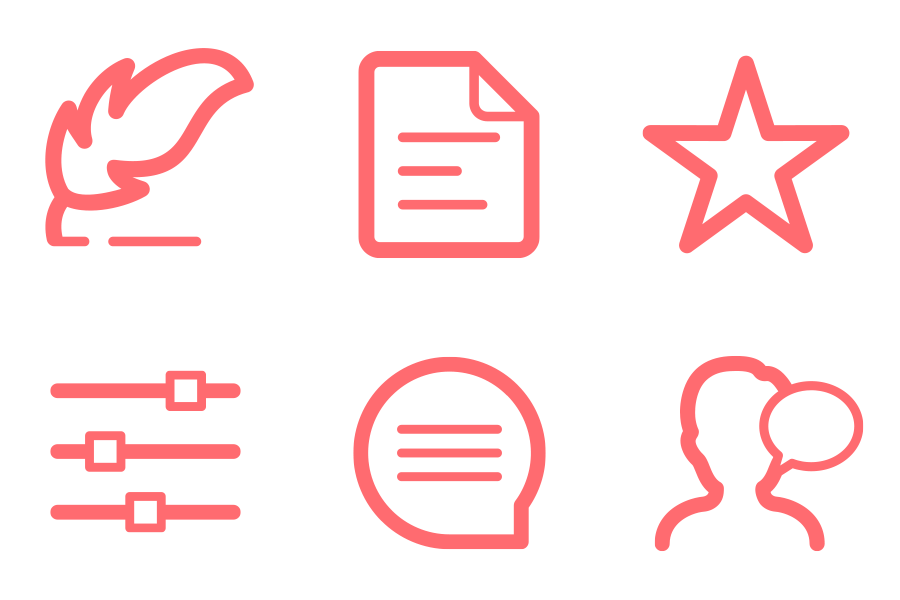
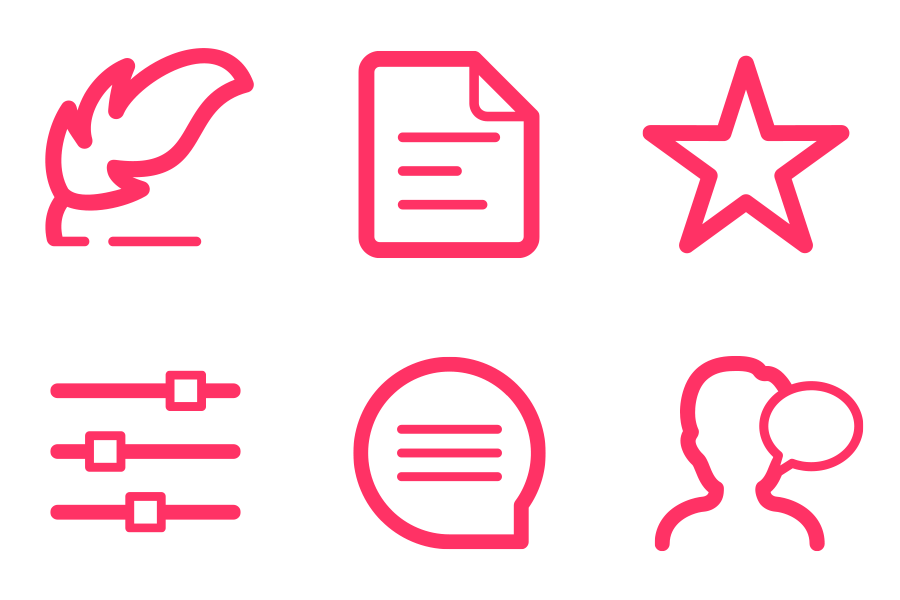
change brand colors

diff --git a/assets/stylesheets/_variables.scss b/assets/stylesheets/_variables.scss
@@ -10,14 +10,16 @@ $gray:                   lighten(#000, 33.5%) !default; // #555
 $gray-light:             lighten(#000, 60%) !default;   // #999
 $gray-lighter:           lighten(#000, 93.5%) !default; // #eee
 
-$brand-primary:          #fe5858 !default;
-$brand-success:          #5cb85c !default;
-$brand-info:             #5bc0de !default;
-$brand-warning:          #f0ad4e !default;
-$brand-danger:           #d9534f !default;
+$brand-primary:         #ff3265 !default;
+$brand-success:         #44c3aa !default;
+$brand-info:            #826c61 !default;
+$brand-warning:         #f6b901 !default;
+$brand-danger:          #a23c56 !default;
+
 
 //wedfairy
-$wedfairy-color:         #FE5B60 !default;
+$wedfairy-color:         $brand-primary !default;
+
 
 //== Scaffolding
 $text-color:             $gray !default;
